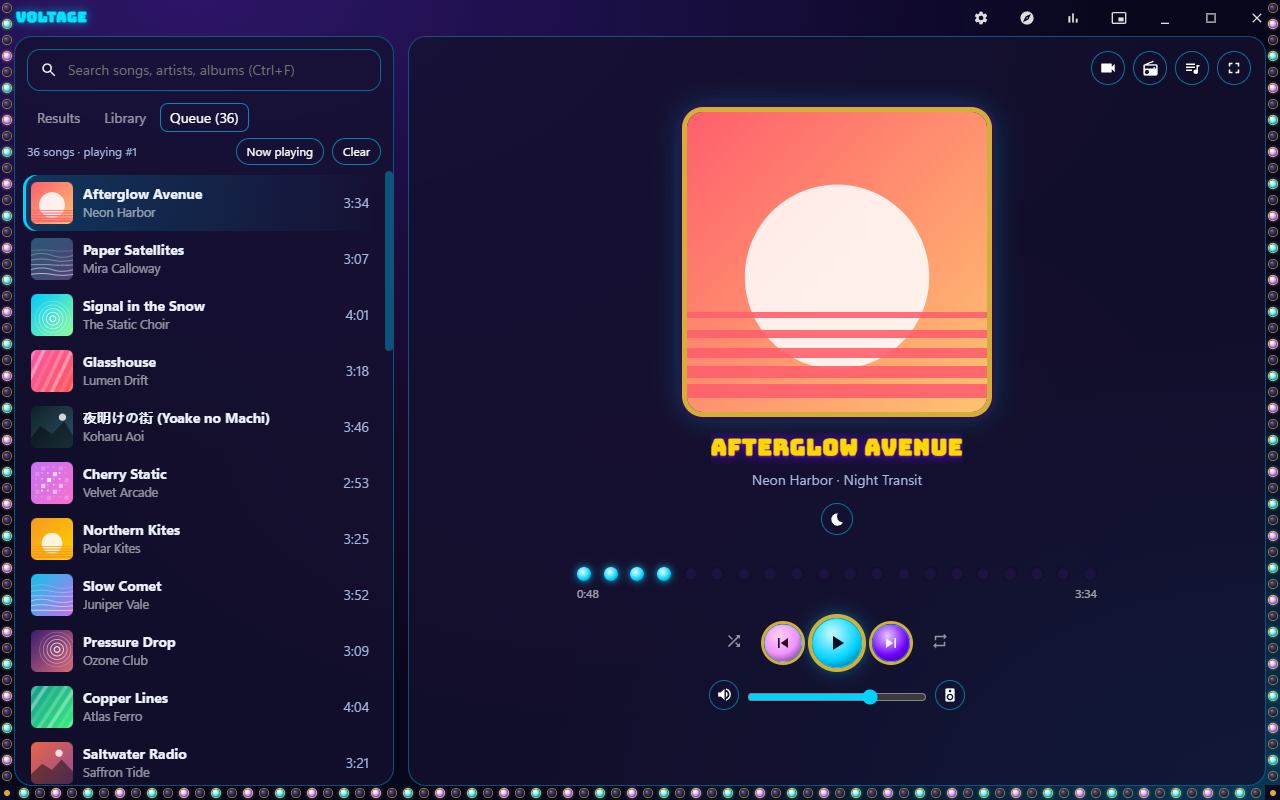
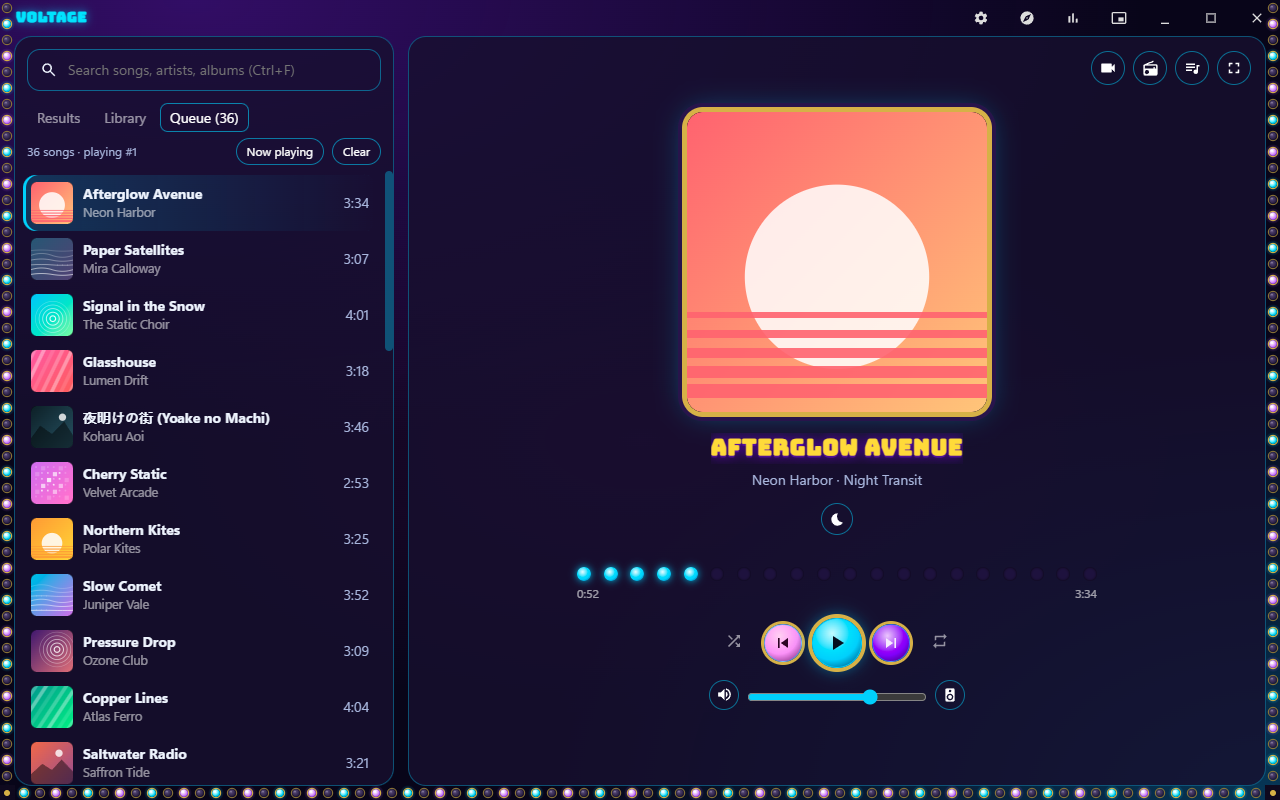
Previews and README rows for the Theme FX wave 1 themes (from the demo library)

diff --git a/README.md b/README.md
@@ -35,6 +35,15 @@ store** reads. Themes contain no code; Voltage checks every file again when it i
 | Night City | rain over neon, the title as a buzzing sign, a glitch on every track change | sign over cover + list |
 | Studio | a mixing desk: two VU meters (needles move with the music with the **VU meter** plugin), rack-mounted player | channel list + meters |
 | Halloween, Winter | tiny seasonal themes (a palette and an overlay on Voltage): how small a theme can be | Voltage's |
+| **Theme FX wave 1** (need Voltage 1.7.2; most need their plugin from Settings > Plugins) | | |
+| Aurora | northern lights in the album's colours over a black sky, a different sky per song (WebGL, **Aurora sky** plugin) | the sky gets the window, the player floats |
+| Neon Sign | the title as a neon sign on a brick wall: letters buzz on, the glow swells with the beat, a tube flickers (off with Reduce flashing) | the sign over everything, the queue as the bar menu |
+| Departures | a station board: the title on split-flap tiles, the queue as departures with clock times (**Departures board** plugin) | board + platform poster |
+| Messenger | the song as a chat with the artist: lyrics arrive as bubbles, typing… before the next song | chat list / header / chat |
+| Cinema | a screen between black bars, lyrics as subtitles, a title card and THE END, pages fade through black | screen / subtitles / program |
+| JRPG | a turn-based battle: the song is the enemy, HP is the time left, FIGHT / ITEM / RUN / MAGIC; seeking hits for damage and you level up (**JRPG battle** plugin) | party / enemy / text box / menu |
+| Word Rain | every sung word falls behind the player and piles up (**Word rain** plugin) | a quiet stage |
+| Jackpot 3 | Jackpot with a lever that skips, coins on a winning line, bulbs on the beat, 5 or 3 reels (the **Reels** plugin) | the cabinet |
 
 Theme sources that aren't copies of Voltage-Plugins' examples are made by `tools/make-store.py`.
 
